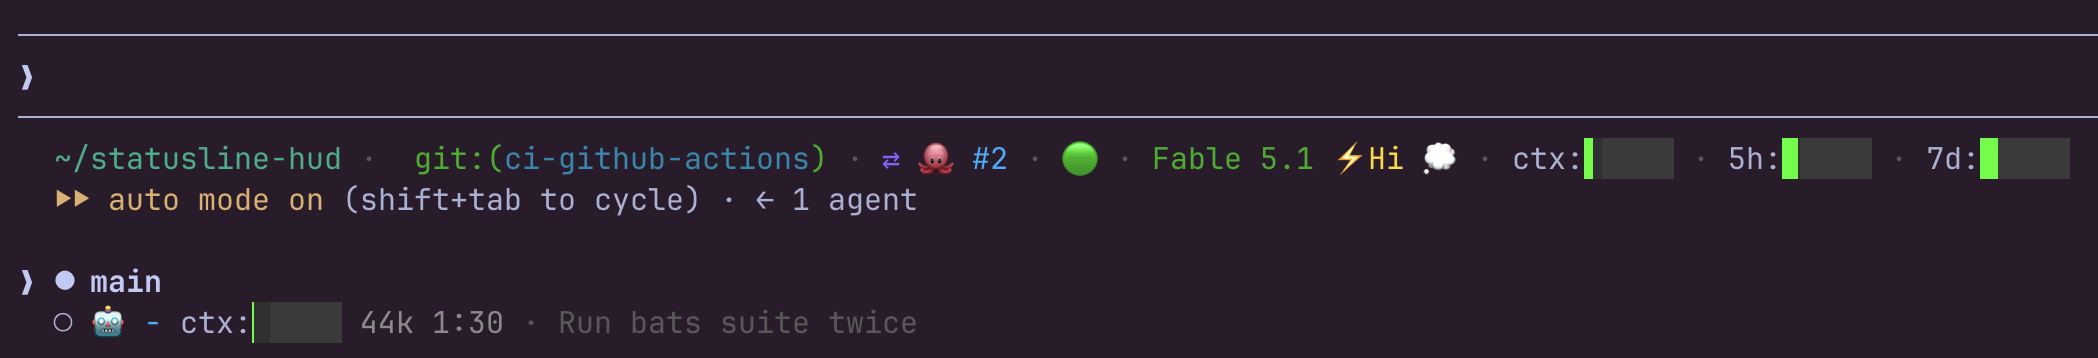
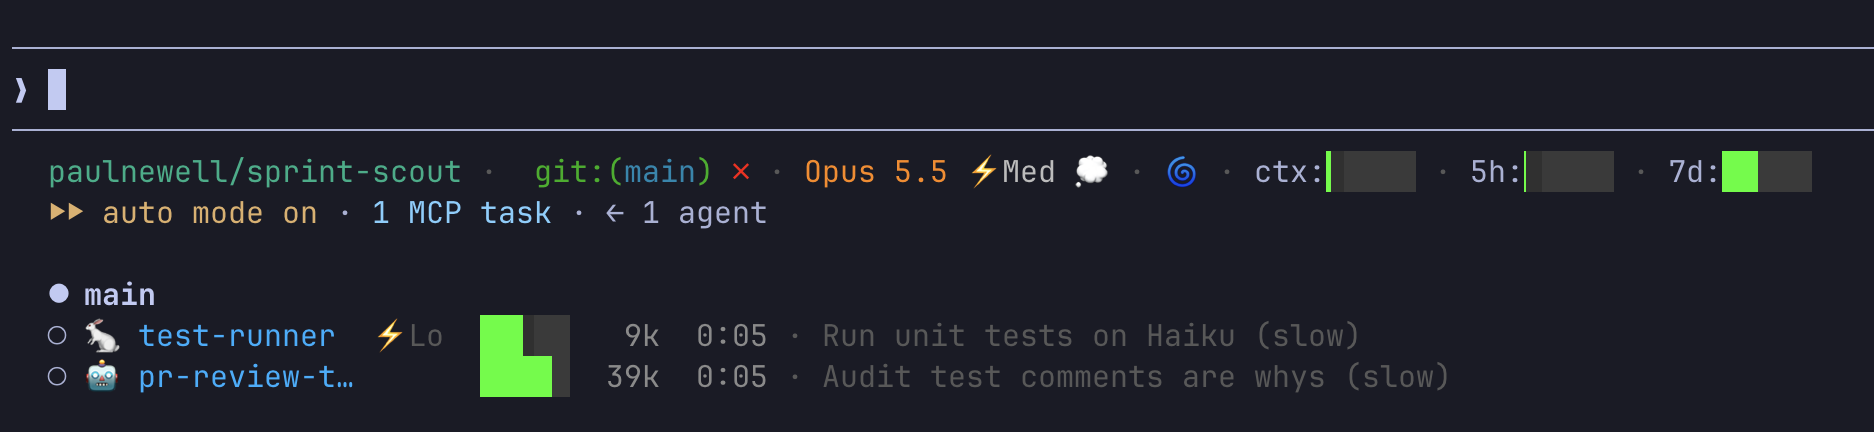
Hide 5h/7d bars when rate limits are absent; refresh agent-row docs
Claude Code only sends rate_limits for Pro/Max subscriptions, after the
first API response. The parse mapped an absent figure to 0, so API-key
sessions and the first render drew empty bars that read as "0% used".
A missing used_percentage now drops the segment; a real 0% still draws.

README: agent-row screenshot replaced; text describes the progress bar.

Claude-Session: https://claude.ai/code/session_019nsos64dBoFzgQHfxqv5hx

diff --git a/README.md b/README.md
@@ -19,7 +19,7 @@ Left to right. Segments marked *off* are in the script but not in the default `S
 - **Subagent count** (*off*) `🤖 ×2` — the agent rows already show each one
 - **agent-link agents** (*off*) `🌀 ♊` — a glyph per CLI spawned through agent-link while it runs. See [Gemini and Codex](#gemini-and-codex)
 - **Context bar** — green → yellow (30%) → orange (50%) → red (60%)
-- **5-hour and 7-day bars** — green → yellow (60%) → orange (80%) → red (95%), with a reset countdown `↺2h14m` above 60%
+- **5-hour and 7-day bars** — green → yellow (60%) → orange (80%) → red (95%), with a reset countdown `↺2h14m` above 60%. Shown only when Claude Code reports the figures: Pro/Max subscriptions, after the first turn. API-key sessions get no bars rather than empty ones
 - **Session name** and **worktree** `⎇ my-feature` (*off*)
 - **Cache hit ratio** (*off*) `↩97%` — cyan `❄` when the cached prefix has gone cold, `❄4m` while it's warm but about to lapse
 - **Session spend** (*off*) `🔥 $5.64 ($3.20/h)` — green under $5, amber to $20, red above. `TURN_UNIT=tokens` for input tokens instead
@@ -30,9 +30,9 @@ Preview it: `bash statusline-hud.sh --demo`.
 
 ## Agent rows
 
-![A subagent's row under the prompt: 🤖, an activity bar, tokens, elapsed time, and what it's doing right now](blog/images/agent-row.png)
+![Two subagent rows under the prompt: a Haiku test-runner and a Sonnet reviewer, each with its model glyph, effort badge, progress bar, tokens, elapsed time, and what it's doing right now](blog/images/agent-row.png)
 
-`subagent-statusline.sh`, wired in as `subagentStatusLine`, restyles the rows Claude Code draws under the prompt while subagents run: a glyph for the model (🧠 Opus, 🤖 Sonnet, 🐇 Haiku, 📖 Fable), name, effort badge, an activity bar, tokens, elapsed, and what it's doing right now. ✗ red for a failed agent, ■ grey for a stopped one. Every column is fixed width (names padded or cut to `AGENT_NAME_WIDTH`), so rows line up.
+`subagent-statusline.sh`, wired in as `subagentStatusLine`, restyles the rows Claude Code draws under the prompt while subagents run: a glyph for the model (🧠 Opus, 🤖 Sonnet, 🐇 Haiku, 📖 Fable), name, effort badge, a progress bar, tokens, elapsed, and what it's doing right now. ✗ red for a failed agent, ■ grey for a stopped one. Every column is fixed width (names padded or cut to `AGENT_NAME_WIDTH`), so rows line up.
 
 Claude Code gives no completion signal for a task, so the bar shows work so far: tokens used on a log scale, empty at `GAUGE_FLOOR` (1k) and full at `GAUGE_FULL` (100k). It only ever grows. `AGENT_GAUGE` picks another style instead: `activity` fills by the latest tick's growth against the busiest tick (built from the last token readings, one per refresh tick, so a waiting agent shows empty), `spark` `▁▂▃▅▇█▅▇` (8 ticks), `pulse` `●`/`○`, `rate` `+1.2k`, `ctx` for the agent's own context bar, or `off`.
 
